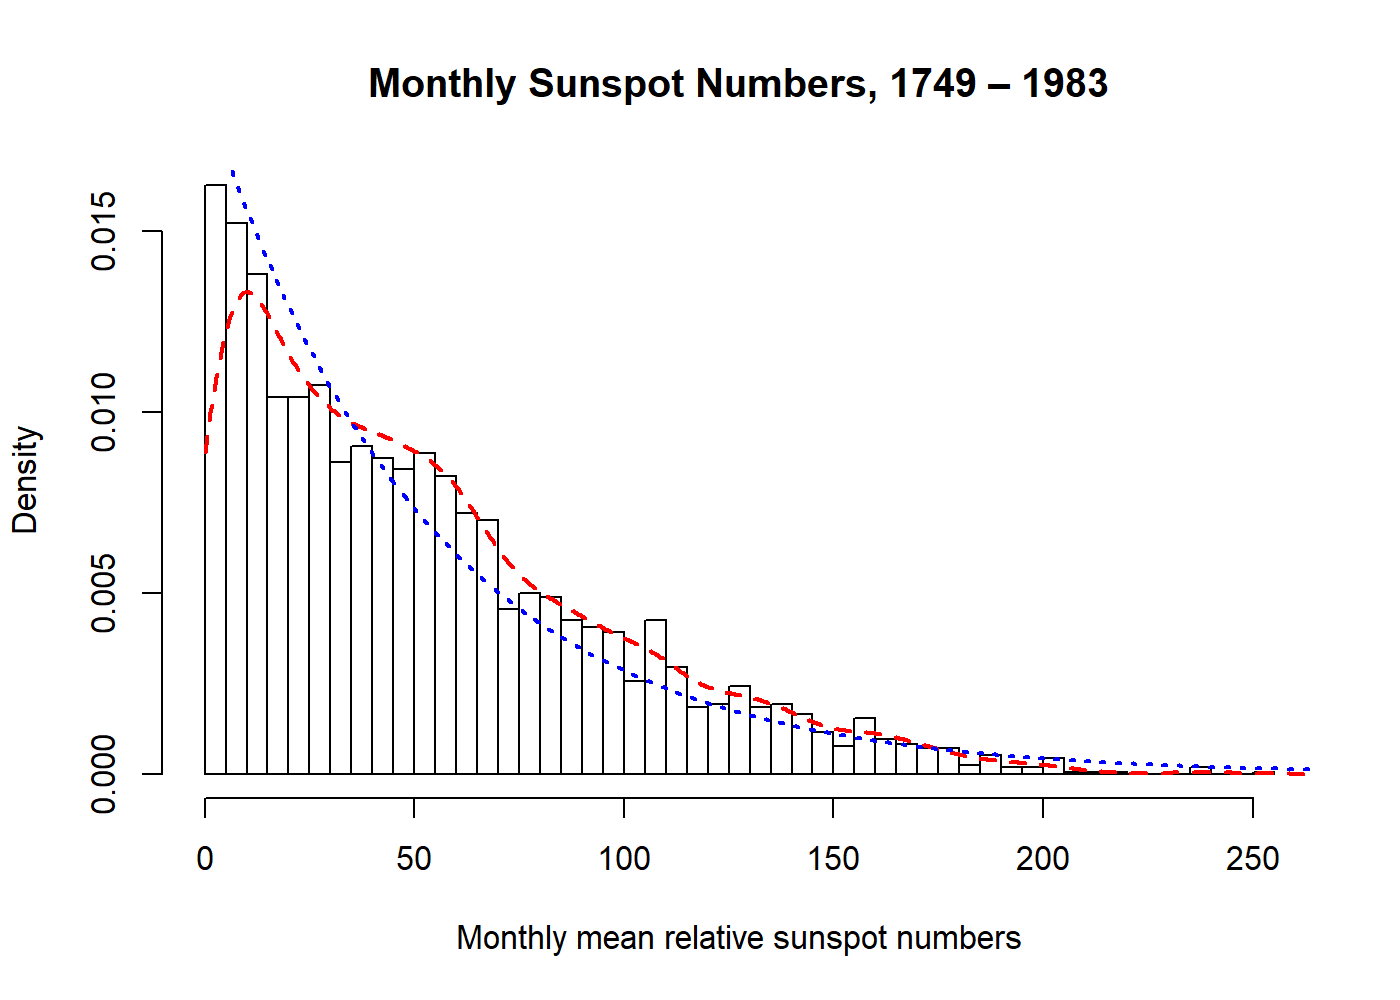
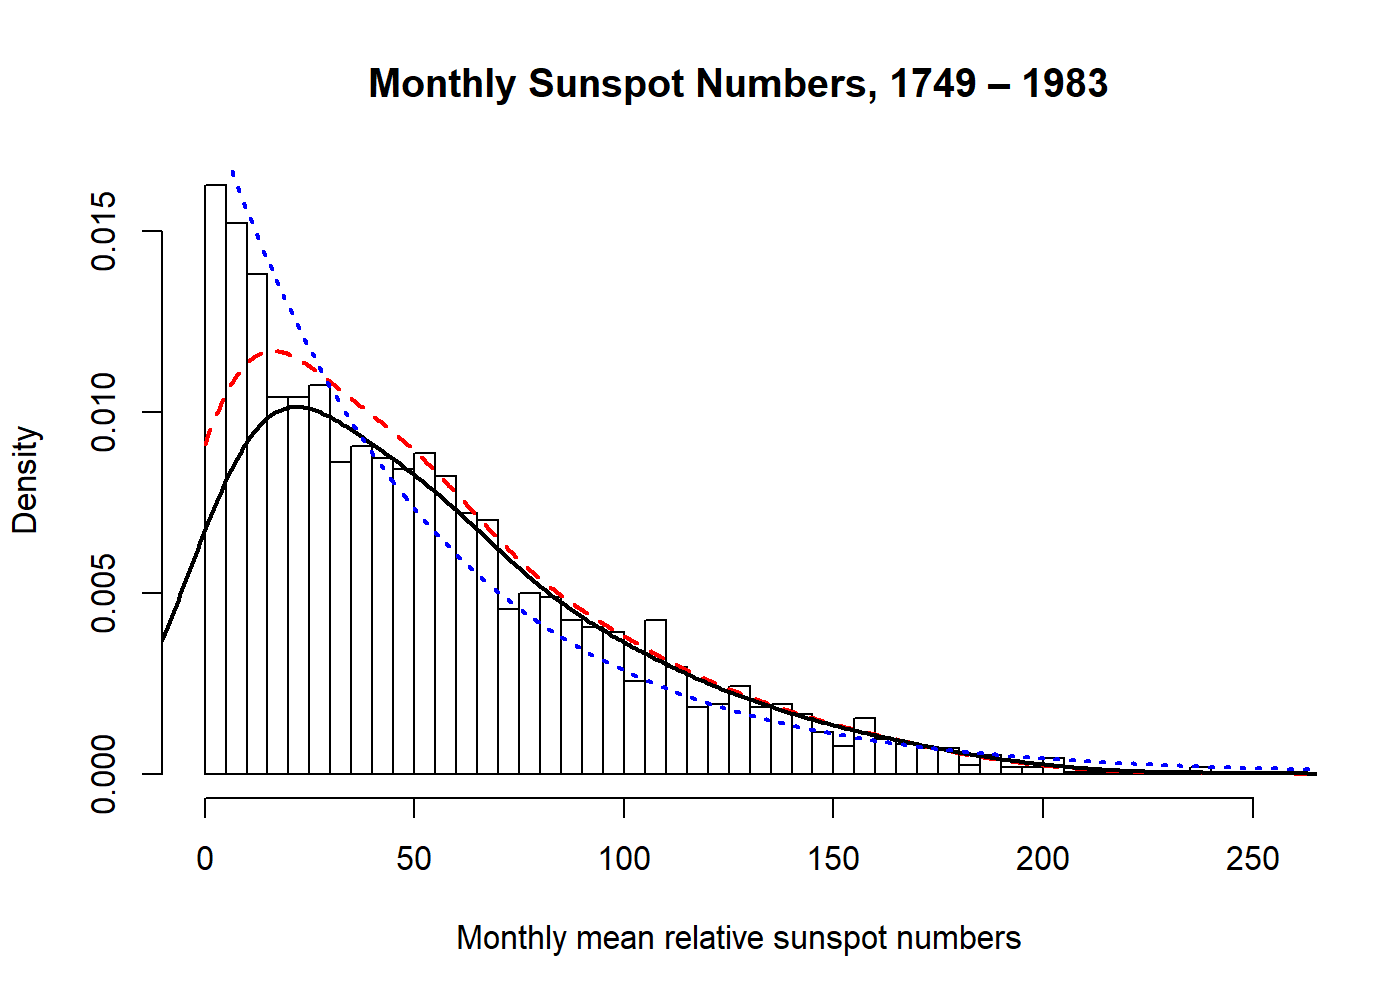
Updated readme and description.

diff --git a/README.md b/README.md
@@ -1,20 +1,20 @@
-kdensity: Kernel density estimation with a parametric start
+kdensity: Kernel density estimation with parametric starts and
+asymmetric kernels
 ================
-Jonas Moss
-8 February 2018
 
 ## Introduction
 
-Kernel density estimation with a parametric start was introduced by Nils
-Lid Hjort and Ingrid Glad in their 1995 paper [Nonparametric Density
-Estimation with a Parametric
+Kernel density estimation with a *parametric start* was introduced by
+Nils Lid Hjort and Ingrid Glad in their 1995 paper [Nonparametric
+Density Estimation with a Parametric
 Start](https://projecteuclid.org/euclid.aos/1176324627). The idea is to
 start out with a parametric density before you do your kernel density
 estimation, so that your actual kernel density estimation will be a
 correction to the original parametric estimate. Why is this a good idea?
-Because the resulting estimator will be better than a naïve kernel
-density estimator whenever the true density is close to your suggestion,
-and probably not worse if not. Read the paper for more information.
+Because the resulting estimator will be better than an ordinary kernel
+density estimator whenever the true density is close to your suggestion.
+And the estimator can be superior to the ordinary kernal density
+estimator even when the suggestion is pretty far off.
 
 The goal of this `R` package is to make kernel density estimation with a
 parametric start both routine and flexible. In order to achieve this, we
@@ -28,15 +28,15 @@ sharp boundaries, such as data supported on the positive half-line or
 the unit interval. Currently we support the following asymmetric
 kernels:
 
-  - MC Jones and Daniel Henderson’s Gaussian copula KDE, from
+  - MC Jones and Daniel Henderson’s *Gaussian copula KDE*, from
     [Kernel-Type Density Estimation on the Unit Interval
     (2007)](https://academic.oup.com/biomet/article-abstract/94/4/977/246269).
     This is used for data on the unit interval. The bandwidth selection
     mechanism described in that paper is implemented as well. This
     kernel is called `gcopula`.
 
-  - Song Xi Chen’s two gammakernels from [Probability Density Function
-    Estimation Using Gamma Kernels
+  - Song Xi Chen’s two *gamma kernels* from [Probability Density
+    Function Estimation Using Gamma Kernels
     (2000)](https://link.springer.com/article/10.1023/A:1004165218295).
     This is used for data supported on the positive half-line. These
     kernels are called `gamma` and `gamma_biased`.
@@ -67,15 +67,18 @@ x = seq(0, 300, by = 0.5)
 hist(data, freq = FALSE, breaks = 40,
      main = "Monthly Sunspot Numbers, 1749 – 1983",
      xlab = "Monthly mean relative sunspot numbers")
-lines(kdensity(data, start = "exponential", kernel = "gaussian", adjust = 1),
+lines(kdensity(data, start = "exponential", kernel = "gaussian", adjust = 2),
       lwd = 2, lty = 2, col = "red")
+lines(density(data, adjust = 2), lwd = 2, lty = 1)
 lines(x, dexp(x, 1/mean(data)), lwd = 2, lty = 3, col = "blue")
 ```
 
 <img src="README_files/figure-gfm/gaussiankernelexp plot-1.png" width="750px" />
 
-As seen from the histogram, the fit is quite bad, so let us try out the
-`gamma` kernel. Notice the argument `start = "uniform"`, which states
+As seen from the histogram, the `kdensity` estimator with an exponential
+start (red) fits better than `density` (black). But boundary bias is
+still visible, even in the red line, so let us try out the `gamma`
+kernel instrad. Notice the argument `start = "uniform"`, which states
 that the parametric start is *constant*. Using this argument reduces the
 density estimates to a classical kernel density estimate.
 
